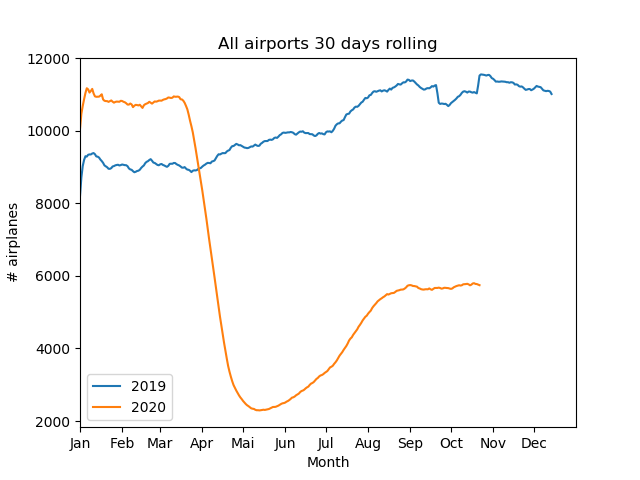
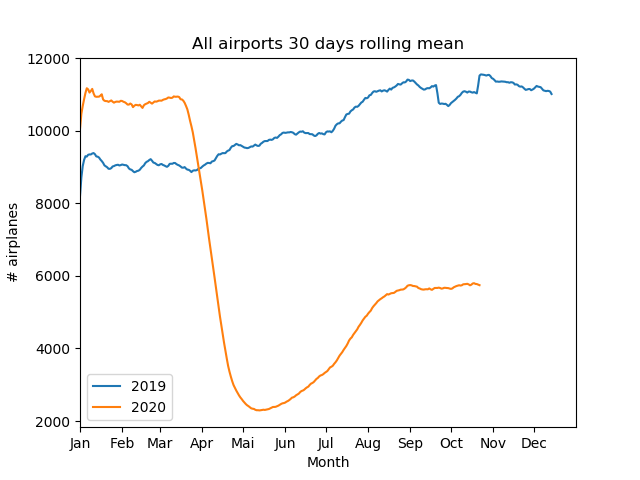
modified header on global graph

Changed region(s): [[0.2812, 0.0625, 0.7188, 0.125]]

diff --git a/flights/Global30Rolling.py b/flights/Global30Rolling.py
@@ -2,25 +2,25 @@ import pandas as pd
 import matplotlib.pyplot as plt
 import numpy as np
 
-LFPG_df = pd.read_csv("flights/dailyDataSets/LFPG_2019")
-EGLL_df = pd.read_csv("flights/dailyDataSets/EGLL_2019")
-EHAM_df = pd.read_csv("flights/dailyDataSets/EHAM_2019")
-KJFK_df = pd.read_csv("flights/dailyDataSets/KJFK_2019")
-KORD_df = pd.read_csv("flights/dailyDataSets/KORD_2019")
-KLAX_df = pd.read_csv("flights/dailyDataSets/KLAX_2019")
-VIDP_df = pd.read_csv("flights/dailyDataSets/VIDP_2019")
-RJTT_df = pd.read_csv("flights/dailyDataSets/RJTT_2019")
-VHHH_df = pd.read_csv("flights/dailyDataSets/VHHH_2019")
+LFPG_df = pd.read_csv("dailyDataSets/LFPG_2019")
+EGLL_df = pd.read_csv("dailyDataSets/EGLL_2019")
+EHAM_df = pd.read_csv("dailyDataSets/EHAM_2019")
+KJFK_df = pd.read_csv("dailyDataSets/KJFK_2019")
+KORD_df = pd.read_csv("dailyDataSets/KORD_2019")
+KLAX_df = pd.read_csv("dailyDataSets/KLAX_2019")
+VIDP_df = pd.read_csv("dailyDataSets/VIDP_2019")
+RJTT_df = pd.read_csv("dailyDataSets/RJTT_2019")
+VHHH_df = pd.read_csv("dailyDataSets/VHHH_2019")
 
-LFPG_df_2020 = pd.read_csv("flights/dailyDataSets/LFPG_2020")
-EGLL_df_2020 = pd.read_csv("flights/dailyDataSets/EGLL_2020")
-EHAM_df_2020 = pd.read_csv("flights/dailyDataSets/EHAM_2020")
-KJFK_df_2020 = pd.read_csv("flights/dailyDataSets/KJFK_2020")
-KORD_df_2020 = pd.read_csv("flights/dailyDataSets/KORD_2020")
-KLAX_df_2020 = pd.read_csv("flights/dailyDataSets/KLAX_2020")
-VIDP_df_2020 = pd.read_csv("flights/dailyDataSets/VIDP_2020")
-RJTT_df_2020 = pd.read_csv("flights/dailyDataSets/RJTT_2020")
-VHHH_df_2020 = pd.read_csv("flights/dailyDataSets/VHHH_2020")
+LFPG_df_2020 = pd.read_csv("dailyDataSets/LFPG_2020")
+EGLL_df_2020 = pd.read_csv("dailyDataSets/EGLL_2020")
+EHAM_df_2020 = pd.read_csv("dailyDataSets/EHAM_2020")
+KJFK_df_2020 = pd.read_csv("dailyDataSets/KJFK_2020")
+KORD_df_2020 = pd.read_csv("dailyDataSets/KORD_2020")
+KLAX_df_2020 = pd.read_csv("dailyDataSets/KLAX_2020")
+VIDP_df_2020 = pd.read_csv("dailyDataSets/VIDP_2020")
+RJTT_df_2020 = pd.read_csv("dailyDataSets/RJTT_2020")
+VHHH_df_2020 = pd.read_csv("dailyDataSets/VHHH_2020")
 
 
 def sum_dataframes(airpots, year, airport_names):
@@ -46,7 +46,7 @@ def plot_global_total(df_2019, df_2020):
 
     plt.ylabel('# airplanes')
     plt.xlabel('Month')
-    plt.title("All airports 30 days rolling")
+    plt.title("All airports 30 days rolling mean")
     plt.legend()
     plt.savefig("global30days")
 
